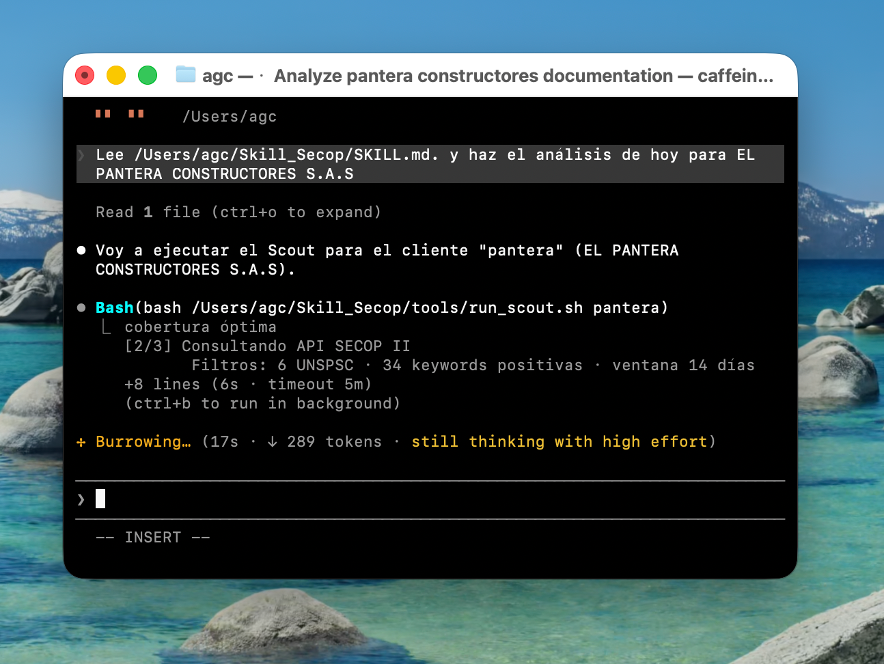
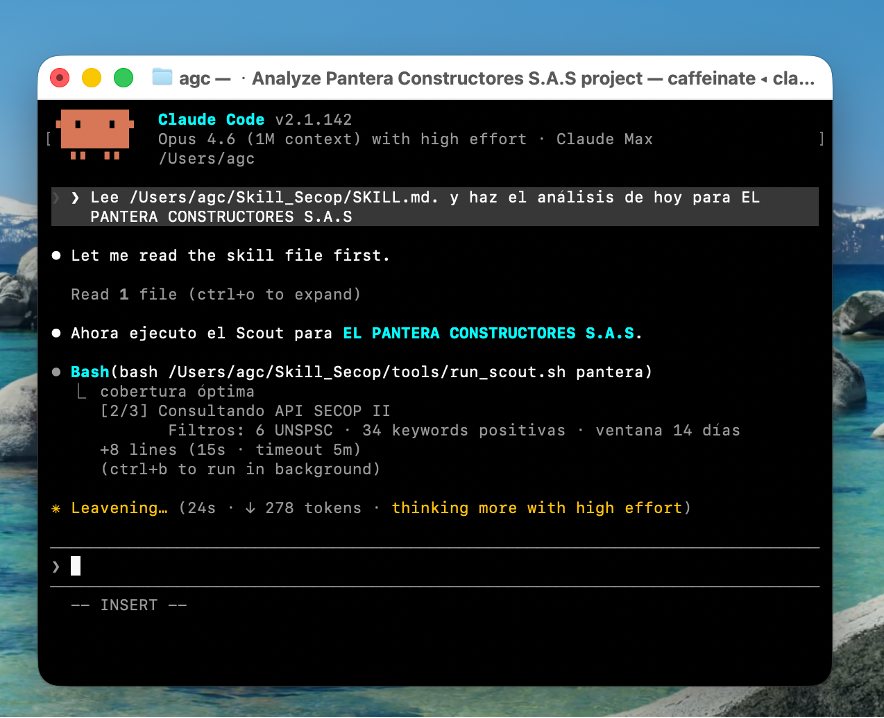
S06: refresh Elpantera_1 image; S01+S32: QR 2x bigger (140→280, 200→400)

diff --git a/slides/S01_portada.md b/slides/S01_portada.md
@@ -38,7 +38,7 @@ content:
       .s01-bio .socials .handle { font-family: var(--mono); font-size: 14px; font-weight: 600; color: var(--coral); margin-left: 4px; }
       .s01-bio .socials .web { font-family: var(--mono); font-size: 13px; color: var(--ink); text-decoration: none; margin-left: 6px; padding-left: 14px; border-left: 1px solid var(--rule); }
       .s01-bio .socials .web:hover { color: var(--coral); }
-      .s01-qr { width: 140px; height: 140px; flex-shrink: 0; }
+      .s01-qr { width: 280px; height: 280px; flex-shrink: 0; }
       .s01-qr img { width: 100%; height: 100%; display: block; }
     </style>
     <div class="s01-center">

diff --git a/slides/S32_cierre.md b/slides/S32_cierre.md
@@ -25,7 +25,7 @@ content:
       .s32 .socials a:hover { color: var(--coral); }
       .s32 .socials a svg { width: 100%; height: 100%; fill: currentColor; }
       .s32 .socials .handle { font-family: var(--mono); font-size: 15px; font-weight: 600; color: var(--coral); margin-left: 4px; }
-      .s32-qr { width: 200px; height: 200px; flex-shrink: 0; align-self: flex-end; }
+      .s32-qr { width: 400px; height: 400px; flex-shrink: 0; align-self: flex-end; }
       .s32-qr img { width: 100%; height: 100%; display: block; }
     </style>
     <div class="s32">